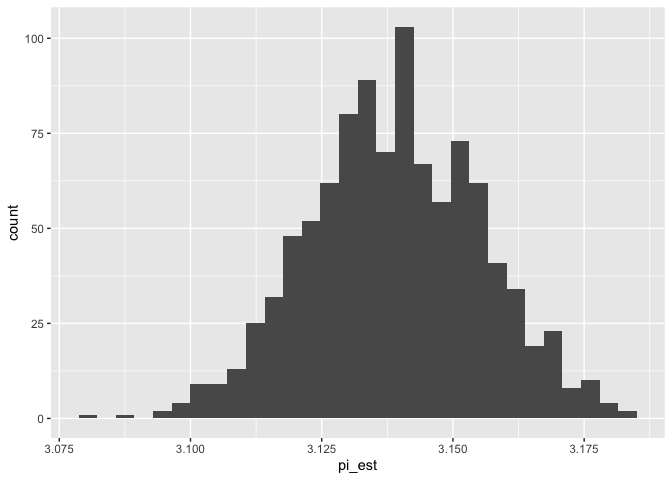
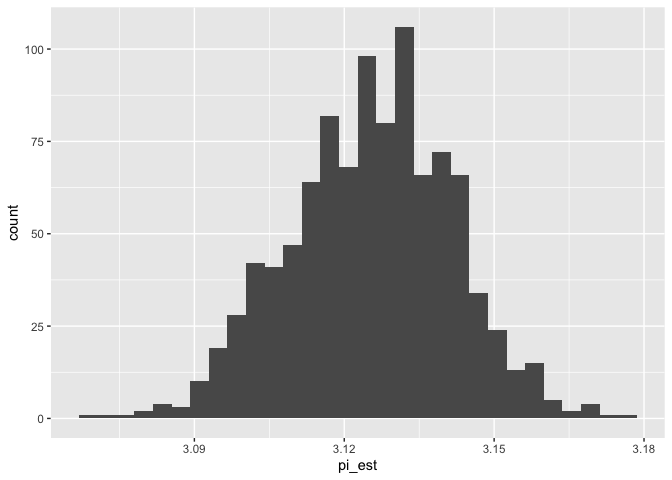
update c07

diff --git a/challenges/c07-monte-carlo-assignment.md b/challenges/c07-monte-carlo-assignment.md
@@ -302,18 +302,18 @@ Using your data in `df_q1`, estimate $\pi$.
 
 ``` r
 ## Estimate pi using your data from q1
+df_q1 <- df_q1 %>%
+  mutate(inside_circle = x^2 + y^2 <= 1)
 df_q3 <-
   df_q1 %>%
-  mutate(
-    inside_circle = x^2 + y^2 <= 1,
-    stat_value = stat(x, y)
-  ) %>%
+  mutate(stat_value = stat(x, y)) %>%
   summarise(pi_est = mean(stat_value))
+
 df_q3
 ```
 
     ##   pi_est
-    ## 1 3.1388
+    ## 1 3.1252
 
 Use the following to check that you’ve used the correct variable names.
 (NB. This does not check correctness.)
@@ -369,10 +369,7 @@ df_q4 <-
       splits,
       function(split_df) {
         analysis(split_df) %>%
-          mutate(
-            inside_circle = x^2 + y^2 <= 1,
-            stat_value = stat(x, y)
-          ) %>%
+          mutate(stat_value = stat(x, y)) %>%
           summarise(pi_est = mean(stat_value)) %>%
           pull(pi_est)
       }
@@ -422,7 +419,7 @@ df_q5
     ## # A tibble: 1 × 2
     ##   pi_lo pi_up
     ##   <dbl> <dbl>
-    ## 1  3.11  3.17
+    ## 1  3.09  3.16
 
 ### **q6** CLT confidence interval
 
@@ -440,9 +437,10 @@ done something *wrong* in one of the tasks….
 ``` r
 df_q6 <-
   df_q1 %>%
+  mutate(stat_value = stat(x, y)) %>%
   summarize(
-    pi_mean = 4 * mean((x^2 + y^2) <= 1), 
-    pi_sd = 4 * sd((x^2 + y^2) <= 1) / sqrt(n()),     
+    pi_mean = mean(stat_value), 
+    pi_sd = sd(stat_value) / sqrt(n()),     
     pi_lo = pi_mean - 1.96 * pi_sd,
     pi_up = pi_mean + 1.96 * pi_sd
   )
@@ -451,13 +449,13 @@ df_q6
 ```
 
     ##   pi_mean      pi_sd    pi_lo    pi_up
-    ## 1  3.1388 0.01644203 3.106574 3.171026
+    ## 1  3.1252 0.01653541 3.092791 3.157609
 
 **Observations**:
 
 - Does your intervals include the true value of $\pi$?
-  - Bootstrap CI: Yes, since 3.122 \<= pi \<= 3.1872.
-  - CLT CI: Yes, since 3.123199 \<= pi \<= 3.187201.
+  - Bootstrap CI: Yes, since 3.1072 \<= pi \<= 3.17321.
+  - CLT CI: Yes, since 3.10779 \<= pi \<= 3.17221.
 - How closely do your bootstrap CI and CLT CI agree?
   - They both provide similar estimates for pi with very small
     difference in bounds. This suggests the normality assumption used in
